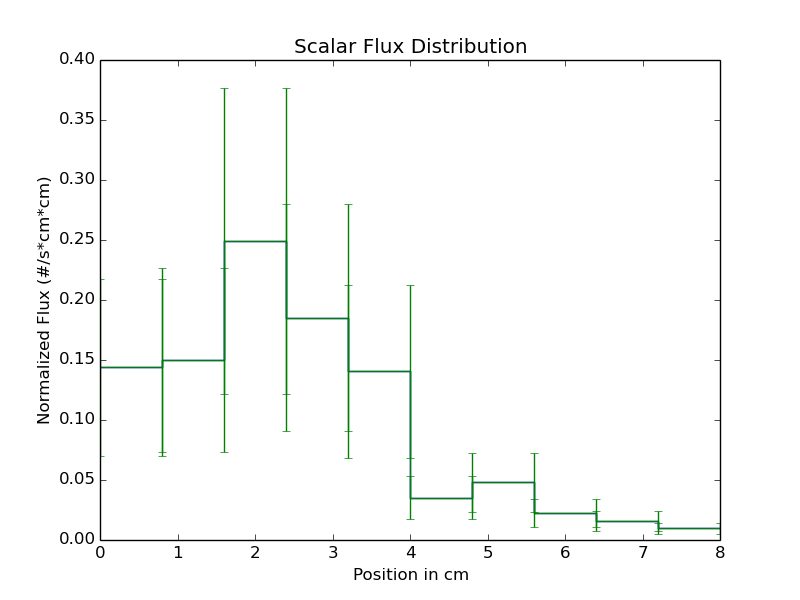
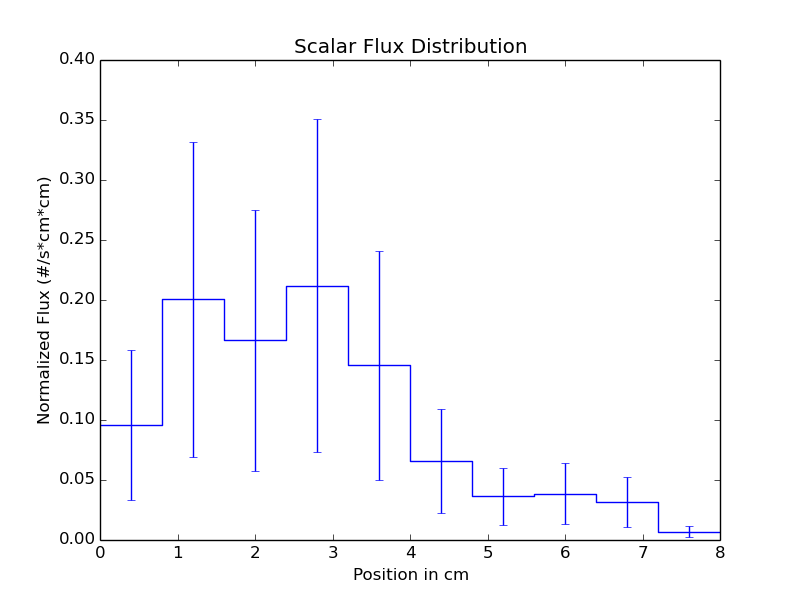
Finished plotter, working now

Changed region(s): [[0.2812, 0.15, 0.9062, 0.9], [0.125, 0.24, 0.2812, 0.84]]

diff --git a/HW4/3.py b/HW4/3.py
@@ -24,7 +24,7 @@ def sep():
 
 # Let the user know that the code is running
 print "*****************************************************"
-print "Pi Approximation CODE BEGIN!"
+print "Slab Flux CODE BEGIN!"
 
 #Take in the number of samples
 N = int( raw_input('Please input the number of samples\n') )
@@ -432,7 +432,10 @@ def plotter( flux , num_part , num_bins , width , cep , sep ):
     logging.debug( str( len( phi_err ) ) )
     label_string = 'N = ' + str( num_part )
     save_string = 'P3Plot' + str( num_part )
-    pl.plot( bins , phi , label = label_string , mid_points , phi_err )
+    pl.plot( bins , phi , 'b-' , label = label_string )
+    pl.plot( mid_points , flux[ 0 ] , marker = '.' , color = 'b' , \
+         visible = False )
+    pl.errorbar( mid_points , flux[ 0 ] , yerr = phi_err , linestyle = 'None' )
     pl.xlabel( 'Position in cm' )
     pl.ylabel( 'Normalized Flux (#/s*cm*cm)' )
     pl.title( 'Scalar Flux Distribution' )
